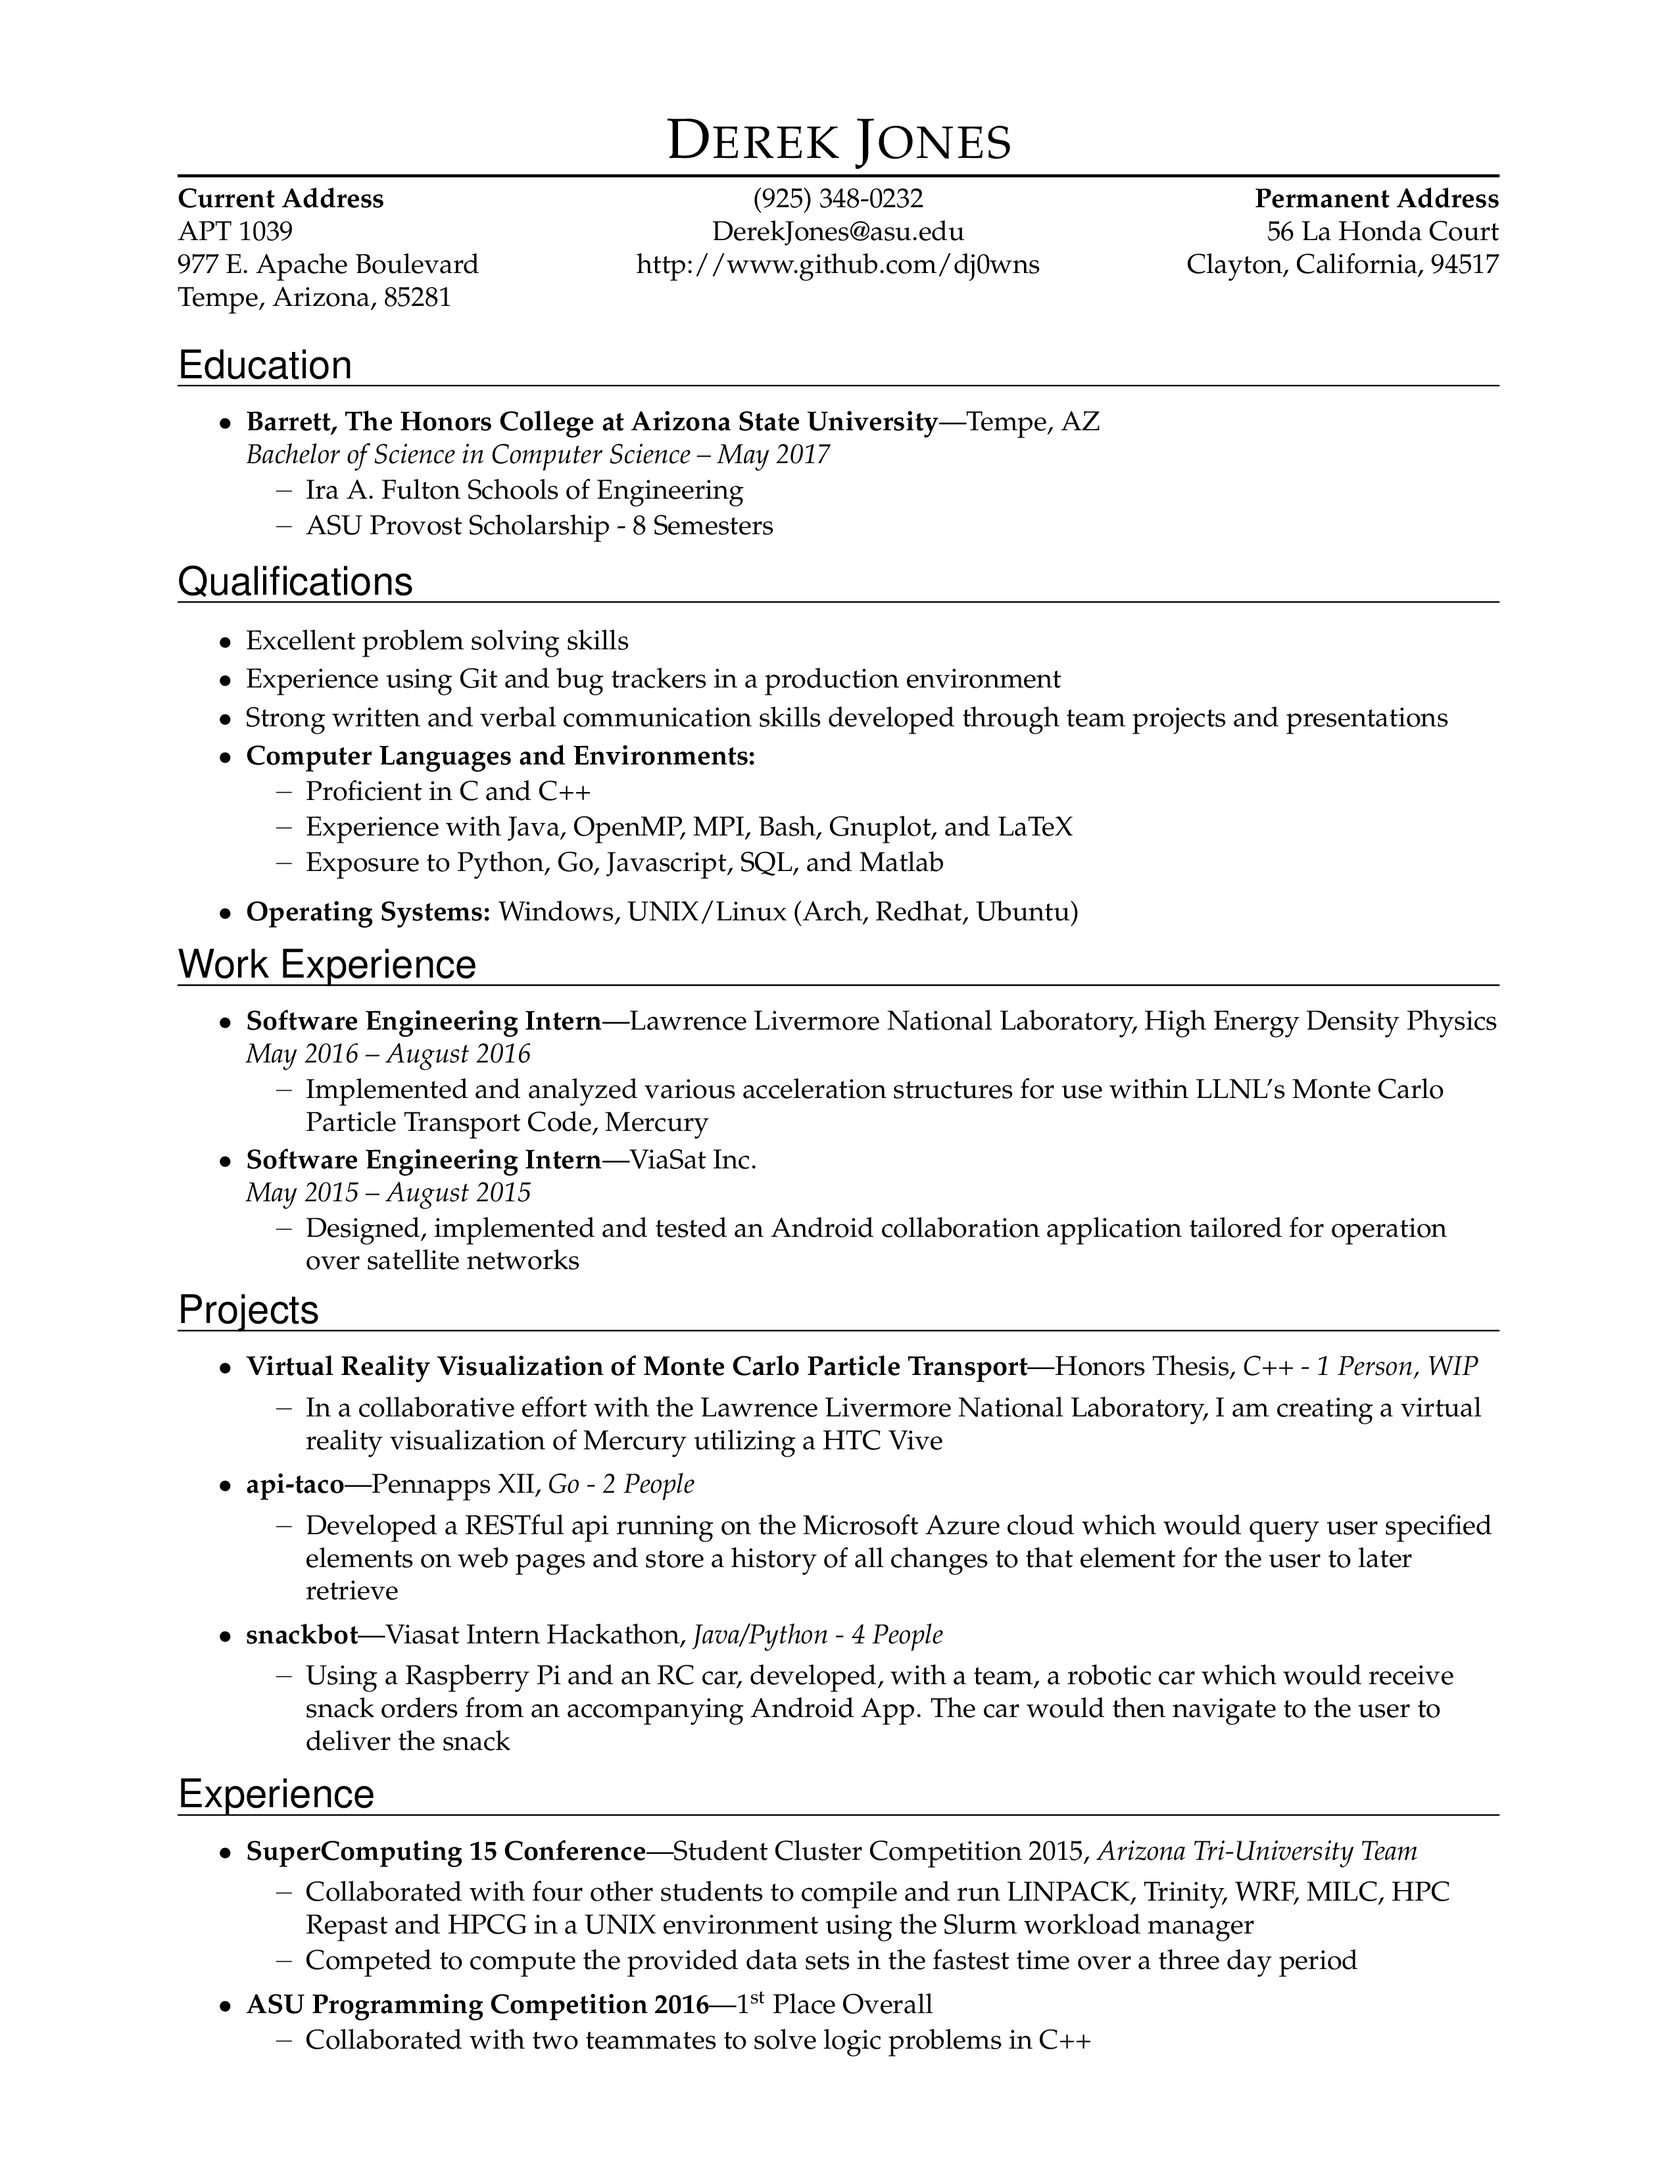
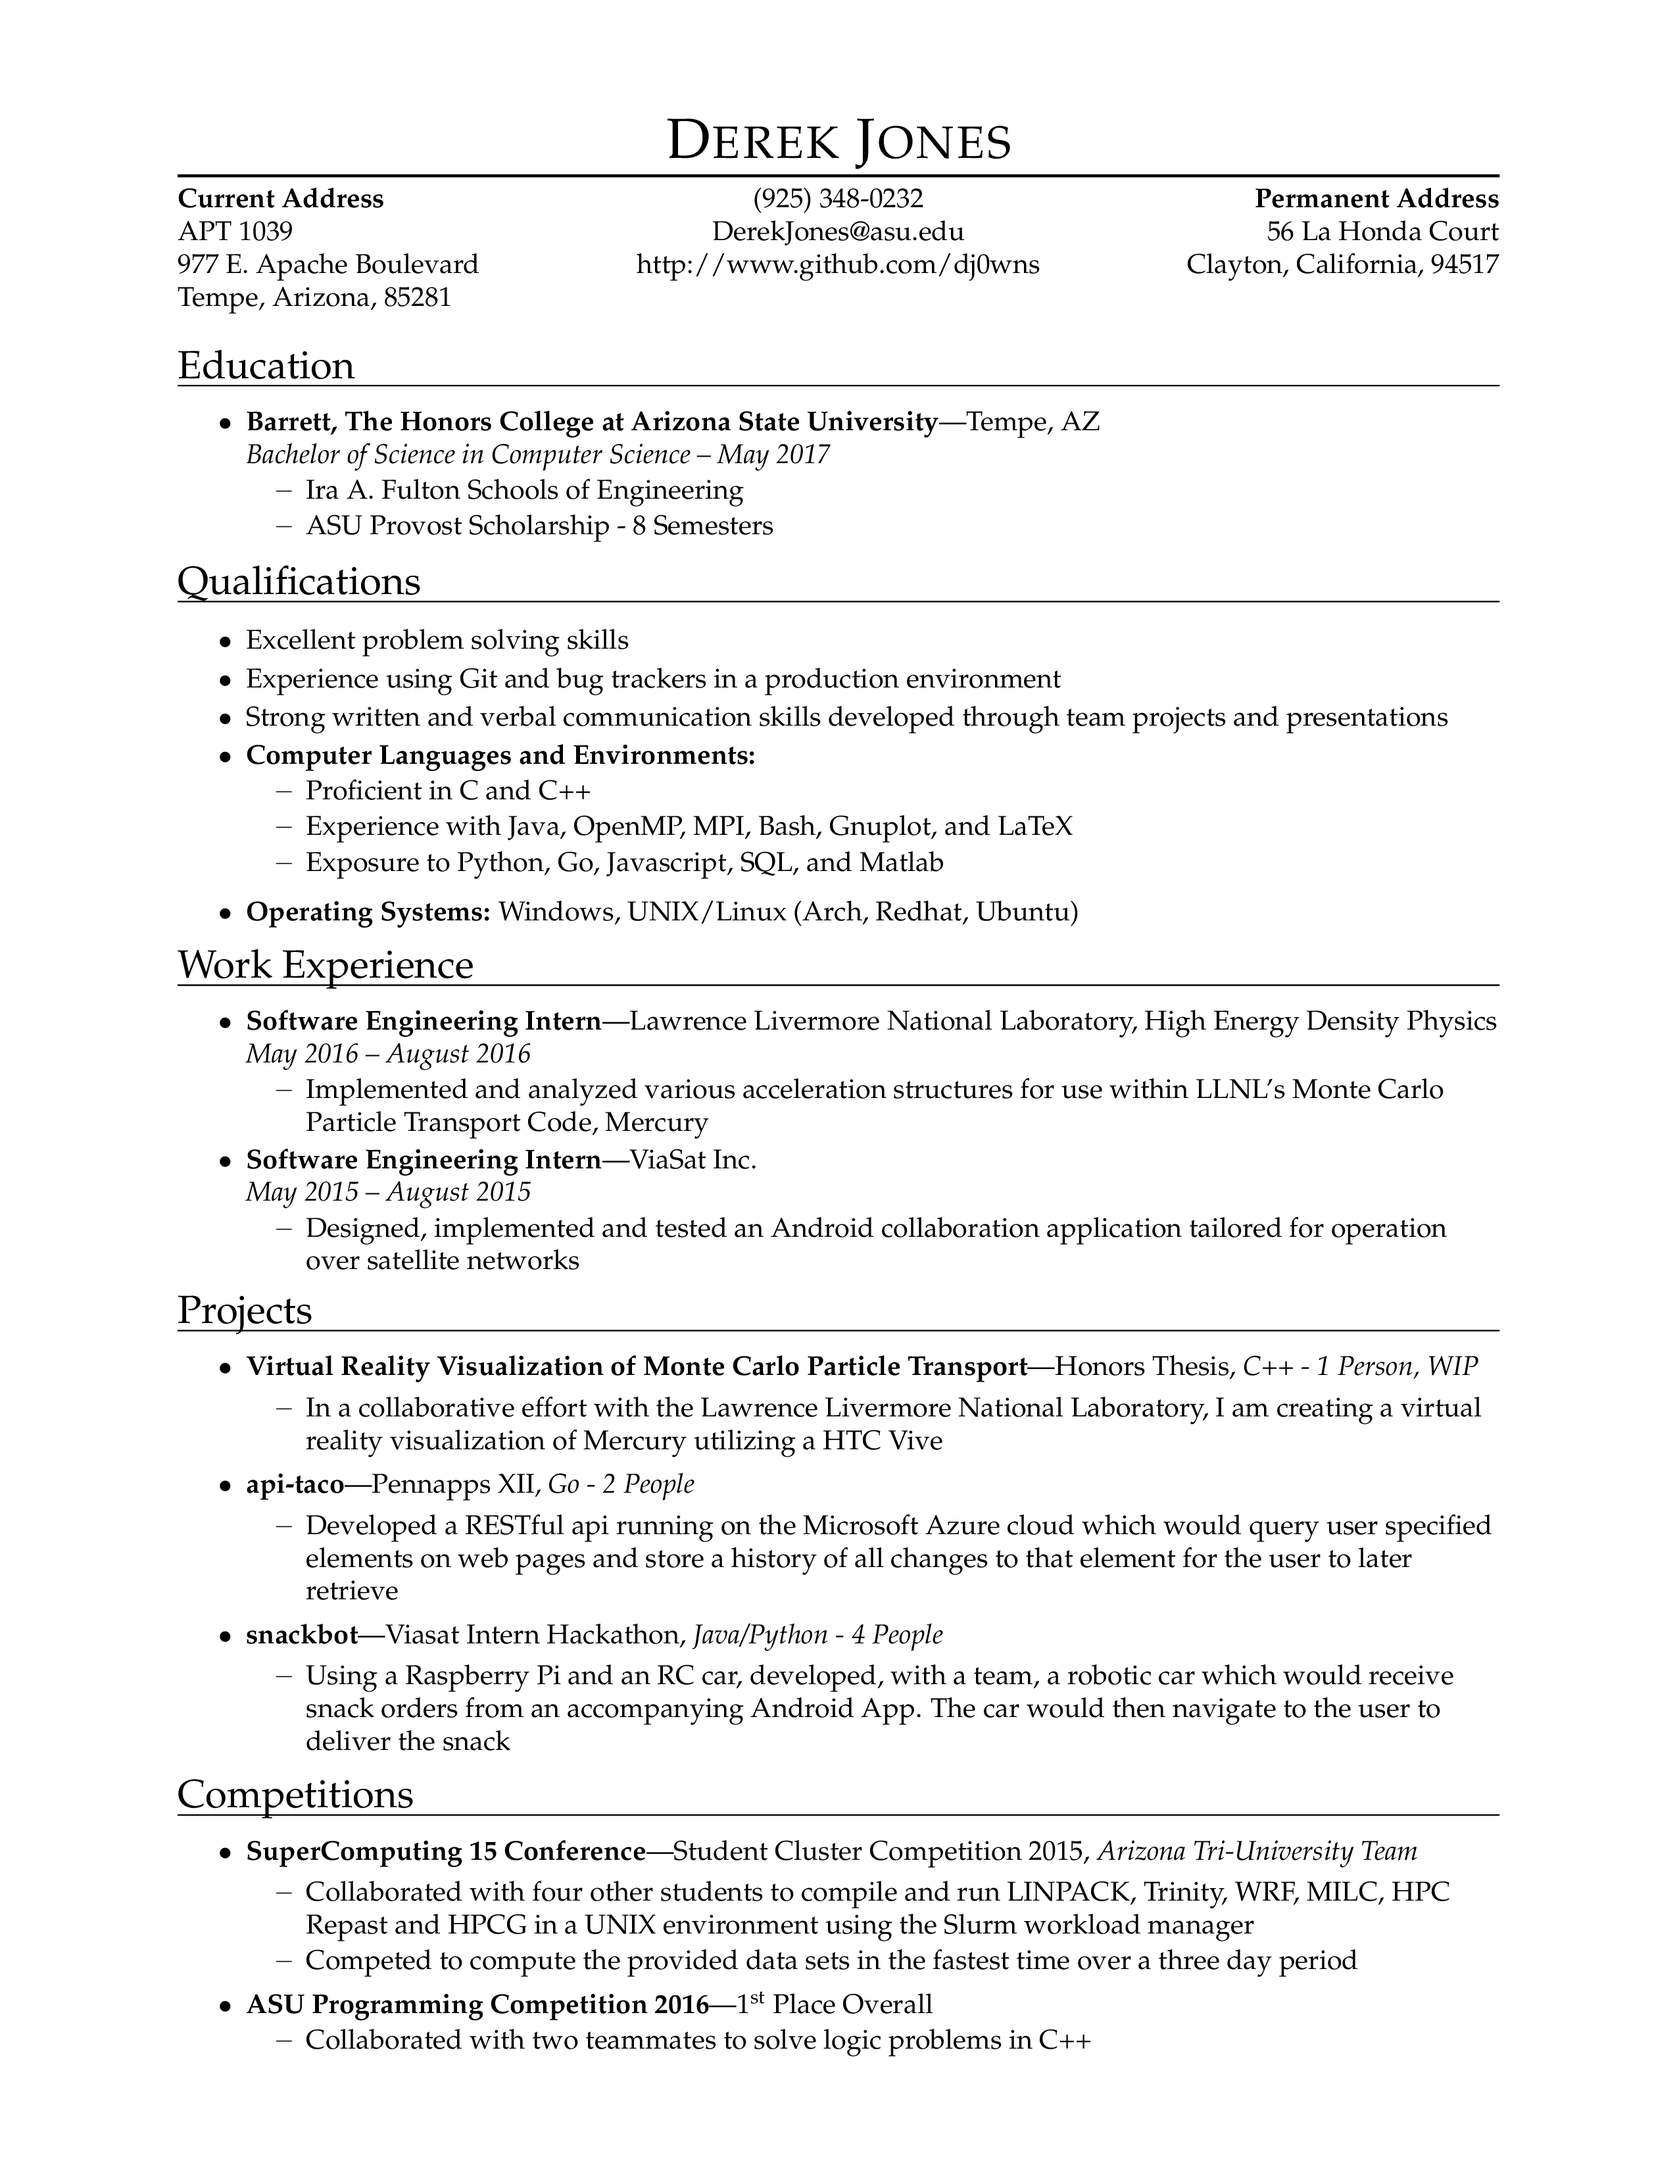
Renamed Experience and fixed fonts

diff --git a/src/resume.tex b/src/resume.tex
@@ -32,8 +32,9 @@
 	\begin{center}\huge\scshape#1\end{center}
 }
 
+%\fontfamily{phv}
 \newcommand{\sectitle}[1]{
-	\begin{flushleft}{\fontfamily{phv}\selectfont\Large#1}\end{flushleft}
+	\begin{flushleft}{\selectfont\Large#1}\end{flushleft}
 }
 
 % A ressection is a main section (<H1>Section</H1>)
@@ -231,7 +232,7 @@
 
 \end{ressection}
 
-
+%%%%%%%%%%%%%%%%%%%%%%%%
 \begin{ressection}{Work Experience}
 	\begin{ressubsec}{Software Engineering Intern}{Lawrence Livermore National Laboratory, High Energy Density Physics}{May 2016 -- August 2016}
     \ressubitem{Implemented and analyzed various acceleration structures for use within LLNL's Monte Carlo Particle Transport Code, Mercury}
@@ -243,6 +244,9 @@
 
 \end{ressection}
 
+
+
+%%%%%%%%%%%%%%%%%%%%%%%%
 \begin{ressection}{Projects}
 	\begin{ressubsecline}{Virtual Reality Visualization of Monte Carlo Particle Transport}{Honors Thesis}{C++ - 1 Person, WIP}
 		\ressubitem{In a collaborative effort with the Lawrence Livermore National Laboratory, I am creating a virtual reality visualization of Mercury utilizing a HTC Vive}
@@ -257,7 +261,10 @@
 	\end{ressubsecline}
 \end{ressection}
 
-\begin{ressection}{Experience}
+
+
+%%%%%%%%%%%%%%%%%%%%%%%%
+\begin{ressection}{Competitions}
 	\begin{ressubsecline}{SuperComputing 15 Conference}{Student Cluster Competition 2015}{Arizona Tri-University Team}
 		\ressubitem{Collaborated with four other students to compile and run LINPACK, Trinity, WRF, MILC, HPC Repast and
 		HPCG in a UNIX environment using the Slurm workload manager}
